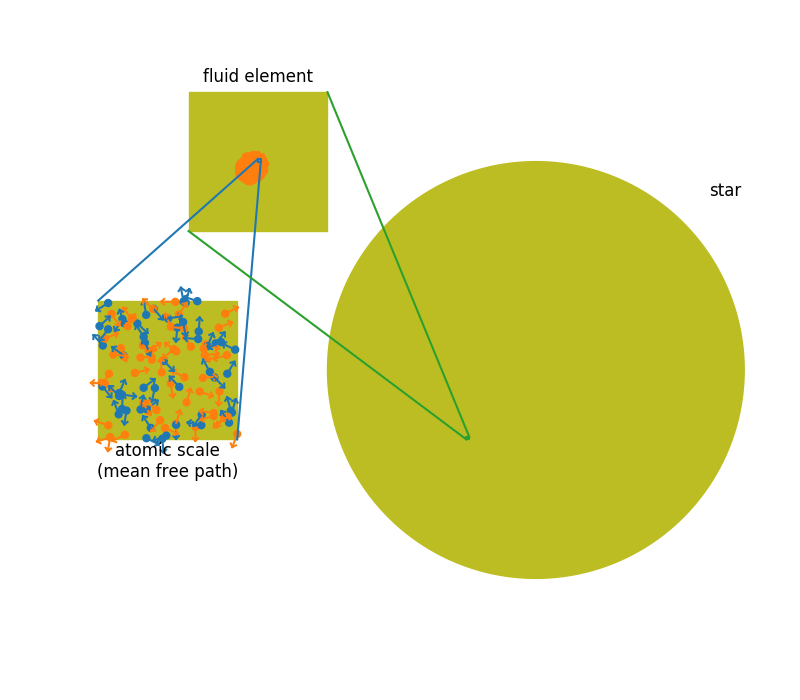
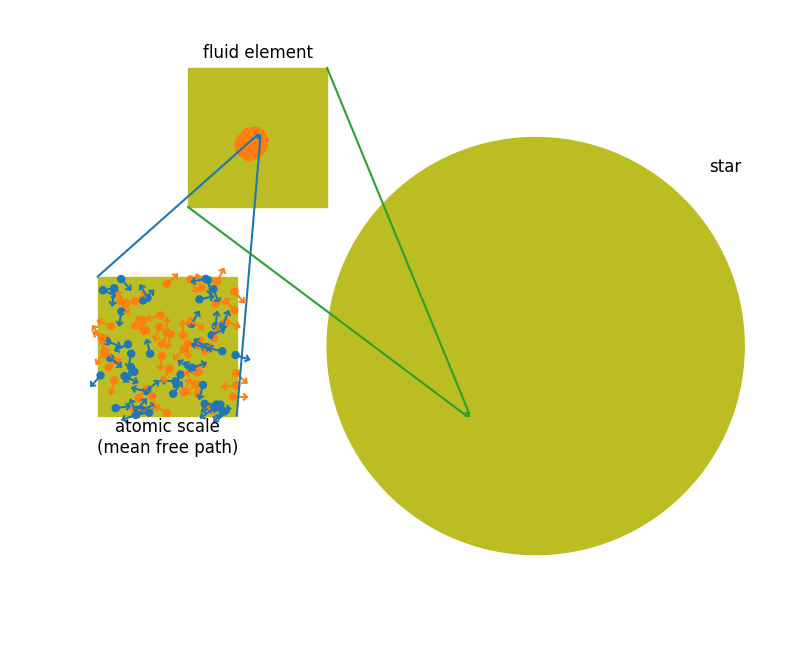
some updates

diff --git a/binary_exoplanets/binary_stars/binary_stars.py b/binary_exoplanets/binary_stars/binary_stars.py
@@ -1,3 +1,5 @@
+#!/bin/env python3
+
 import numpy as np
 import matplotlib.pyplot as plt
 import matplotlib as mpl
@@ -34,19 +36,19 @@ def find_scinotat(number):
     return a, b
 
 
-def radial_velocity():
+def radial_velocity(M1=1, M2=1, a2=10, e=0.0):
 
     # set the masses
-    M_star1 = 2.0*M_sun      # star 1's mass
-    M_star2 = M_sun      # star 2's mass
+    M_star1 = M1*M_sun      # star 1's mass
+    M_star2 = M2*M_sun      # star 2's mass
 
     # set the semi-major axis of the star 2 (and derive that of star 1)
     # M_star2 a_star2 = -M_star1 a_star1 (center of mass)
-    a_star2 = 10.0*AU
+    a_star2 = a2*AU
     a_star1 = (M_star2/M_star1)*a_star2
 
     # set the eccentricity
-    ecc = 0.4
+    ecc = e
 
     # set the angle to rotate the semi-major axis wrt the observer
     theta = np.pi/6.0
@@ -78,7 +80,7 @@ def radial_velocity():
 
         plt.clf()
 
-        plt.subplots_adjust(left=0.1,right=0.9,bottom=0.1,top=0.9)
+        plt.subplots_adjust(left=0.1, right=0.9, bottom=0.1, top=0.9)
 
         a = plt.gca()
         a.set_aspect("equal", "datalim")
@@ -92,18 +94,18 @@ def radial_velocity():
         # plot star 1's orbit and position
         symsize = 200
         if not (b.M1 == b.M2 and b.e == 0.0):
-            plt.plot(s1.x, s1.y, color="r")
+            plt.plot(s1.x, s1.y, color="C0")
         else:
             plt.plot(s1.x, s1.y, color="k")
 
-        plt.scatter([s1.x[n]], [s1.y[n]], s=symsize, color="r")
+        plt.scatter([s1.x[n]], [s1.y[n]], s=symsize, color="C0")
 
         # plot star 2's orbit and position
         symsize = 200*(b.M2/b.M1)
         if not (b.M1 == b.M2 and b.e == 0.0):
-            plt.plot(s2.x, s2.y, color="g")
+            plt.plot(s2.x, s2.y, color="C1")
 
-        plt.scatter([s2.x[n]], [s2.y[n]], s=symsize, color="g")
+        plt.scatter([s2.x[n]], [s2.y[n]], s=symsize, color="C1")
 
 
         if annotate:
@@ -152,7 +154,7 @@ def radial_velocity():
         plt.axis([-1.4*b.a2,1.4*b.a2,-1.4*b.a2,1.4*b.a2])
 
         f = plt.gcf()
-        f.set_size_inches(7.2,7.2)
+        f.set_size_inches(12.8, 7.2)
 
         plt.savefig("binary_star_%04d.png" % iframe)
 

diff --git a/fluids/fluid_scale.py b/fluids/fluid_scale.py
@@ -64,7 +64,8 @@ def draw():
              [aymin, aymax, aymax, aymin, aymin], color="C8", zorder=-100)
 
     plt.text(0.5*(axmin+axmax), 0.98*aymin, "atomic scale\n(mean free path)", 
-             fontsize="large", horizontalalignment="center", verticalalignment="top")
+             fontsize="large", horizontalalignment="center", verticalalignment="top",
+             color="black")
 
     N = 100
 
@@ -99,7 +100,8 @@ def draw():
     plt.fill(xe, ye, color="C1")
 
 
-    plt.text(0.5*(xmin+xmax), 1.02*ymax, "fluid element", fontsize="large", horizontalalignment="center")
+    plt.text(0.5*(xmin+xmax), 1.02*ymax, "fluid element", 
+             fontsize="large", horizontalalignment="center", color="black")
     # connect
     zoom_box((0.4, 0.6), (0.404, 0.604), 
              (0.4, 0.604), (axmin, aymax),
@@ -121,18 +123,17 @@ def draw():
              (0.7, 0.2), (xmin, ymin), color="C2")
 
 
-    plt.text(1.05, 0.55, "star", horizontalalignment="left", fontsize="large")
+    plt.text(1.05, 0.55, "star", horizontalalignment="left", fontsize="large", color="black")
 
     ax = plt.gca()
     ax.set_aspect("equal", "datalim")
-
     plt.tight_layout()
 
     f = plt.gcf()
-    f.set_size_inches(8, 7)
+    f.set_size_inches(8, 6.5)
 
     plt.axis("off")
-    plt.savefig("fluid_scale.pdf", dpi=100)
+    plt.savefig("fluid_scale.pdf", dpi=100, bbox_inches="tight", pad_inches=0)
     plt.savefig("fluid_scale.png", dpi=100, transparent=True)
 
 
